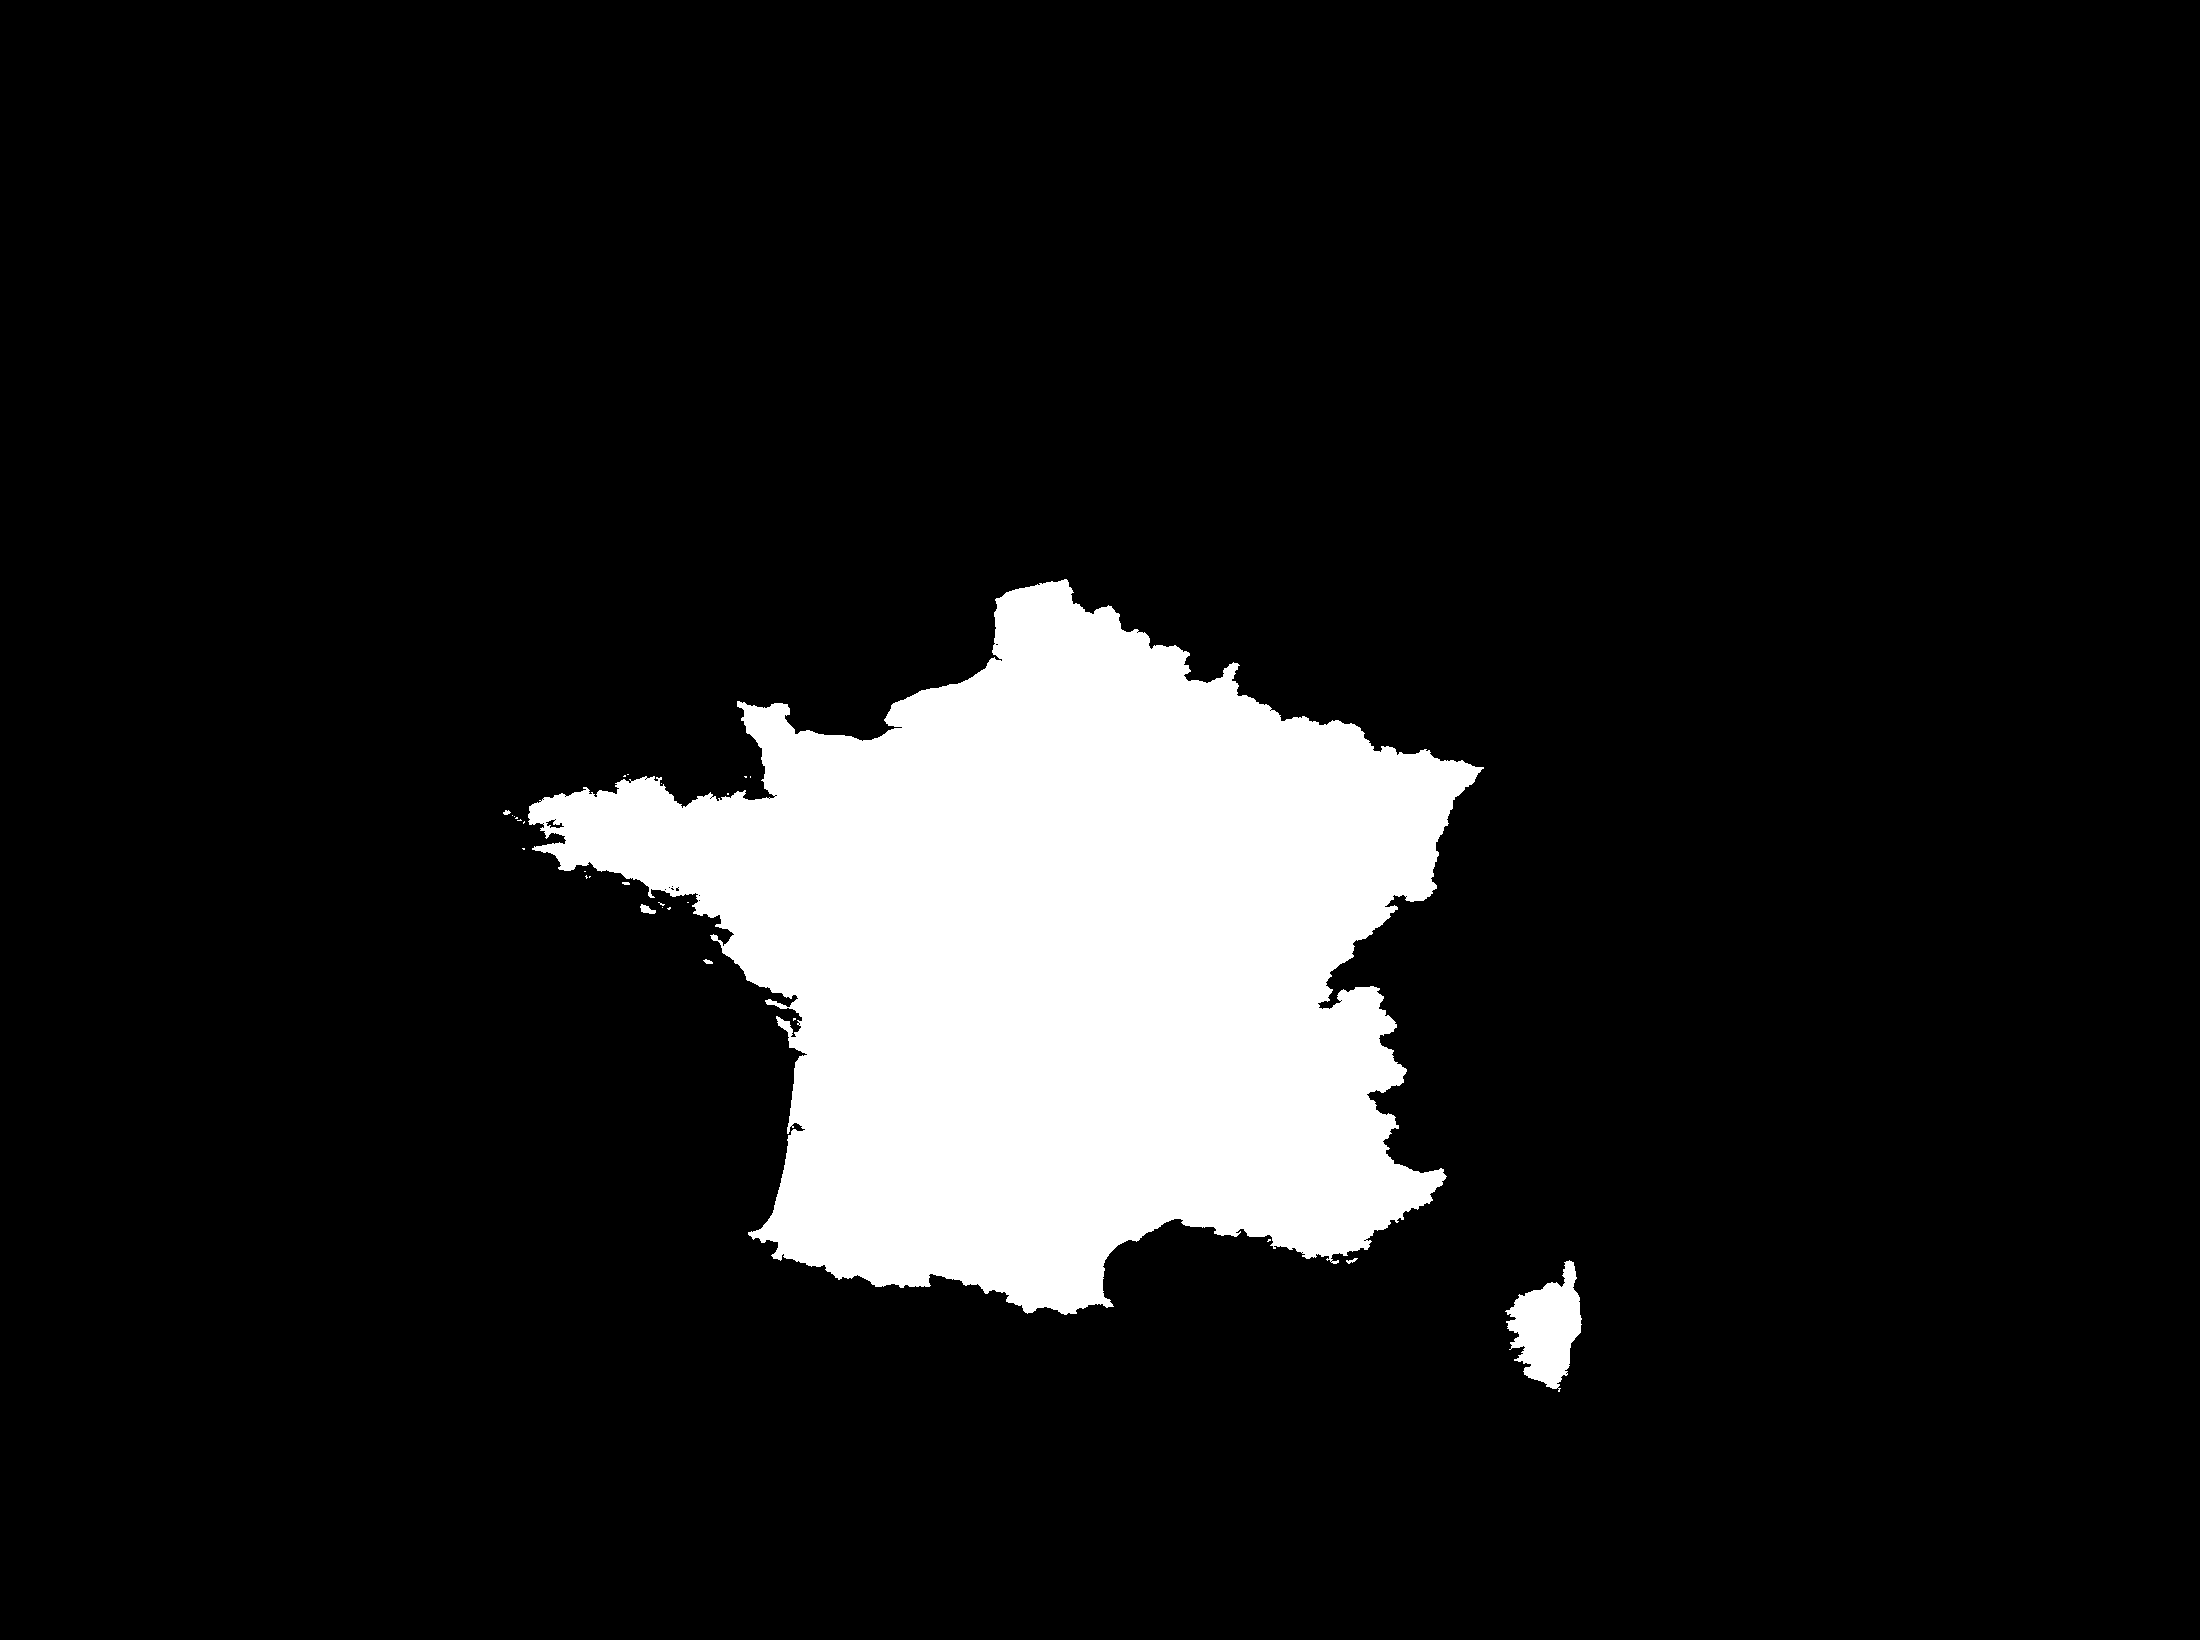
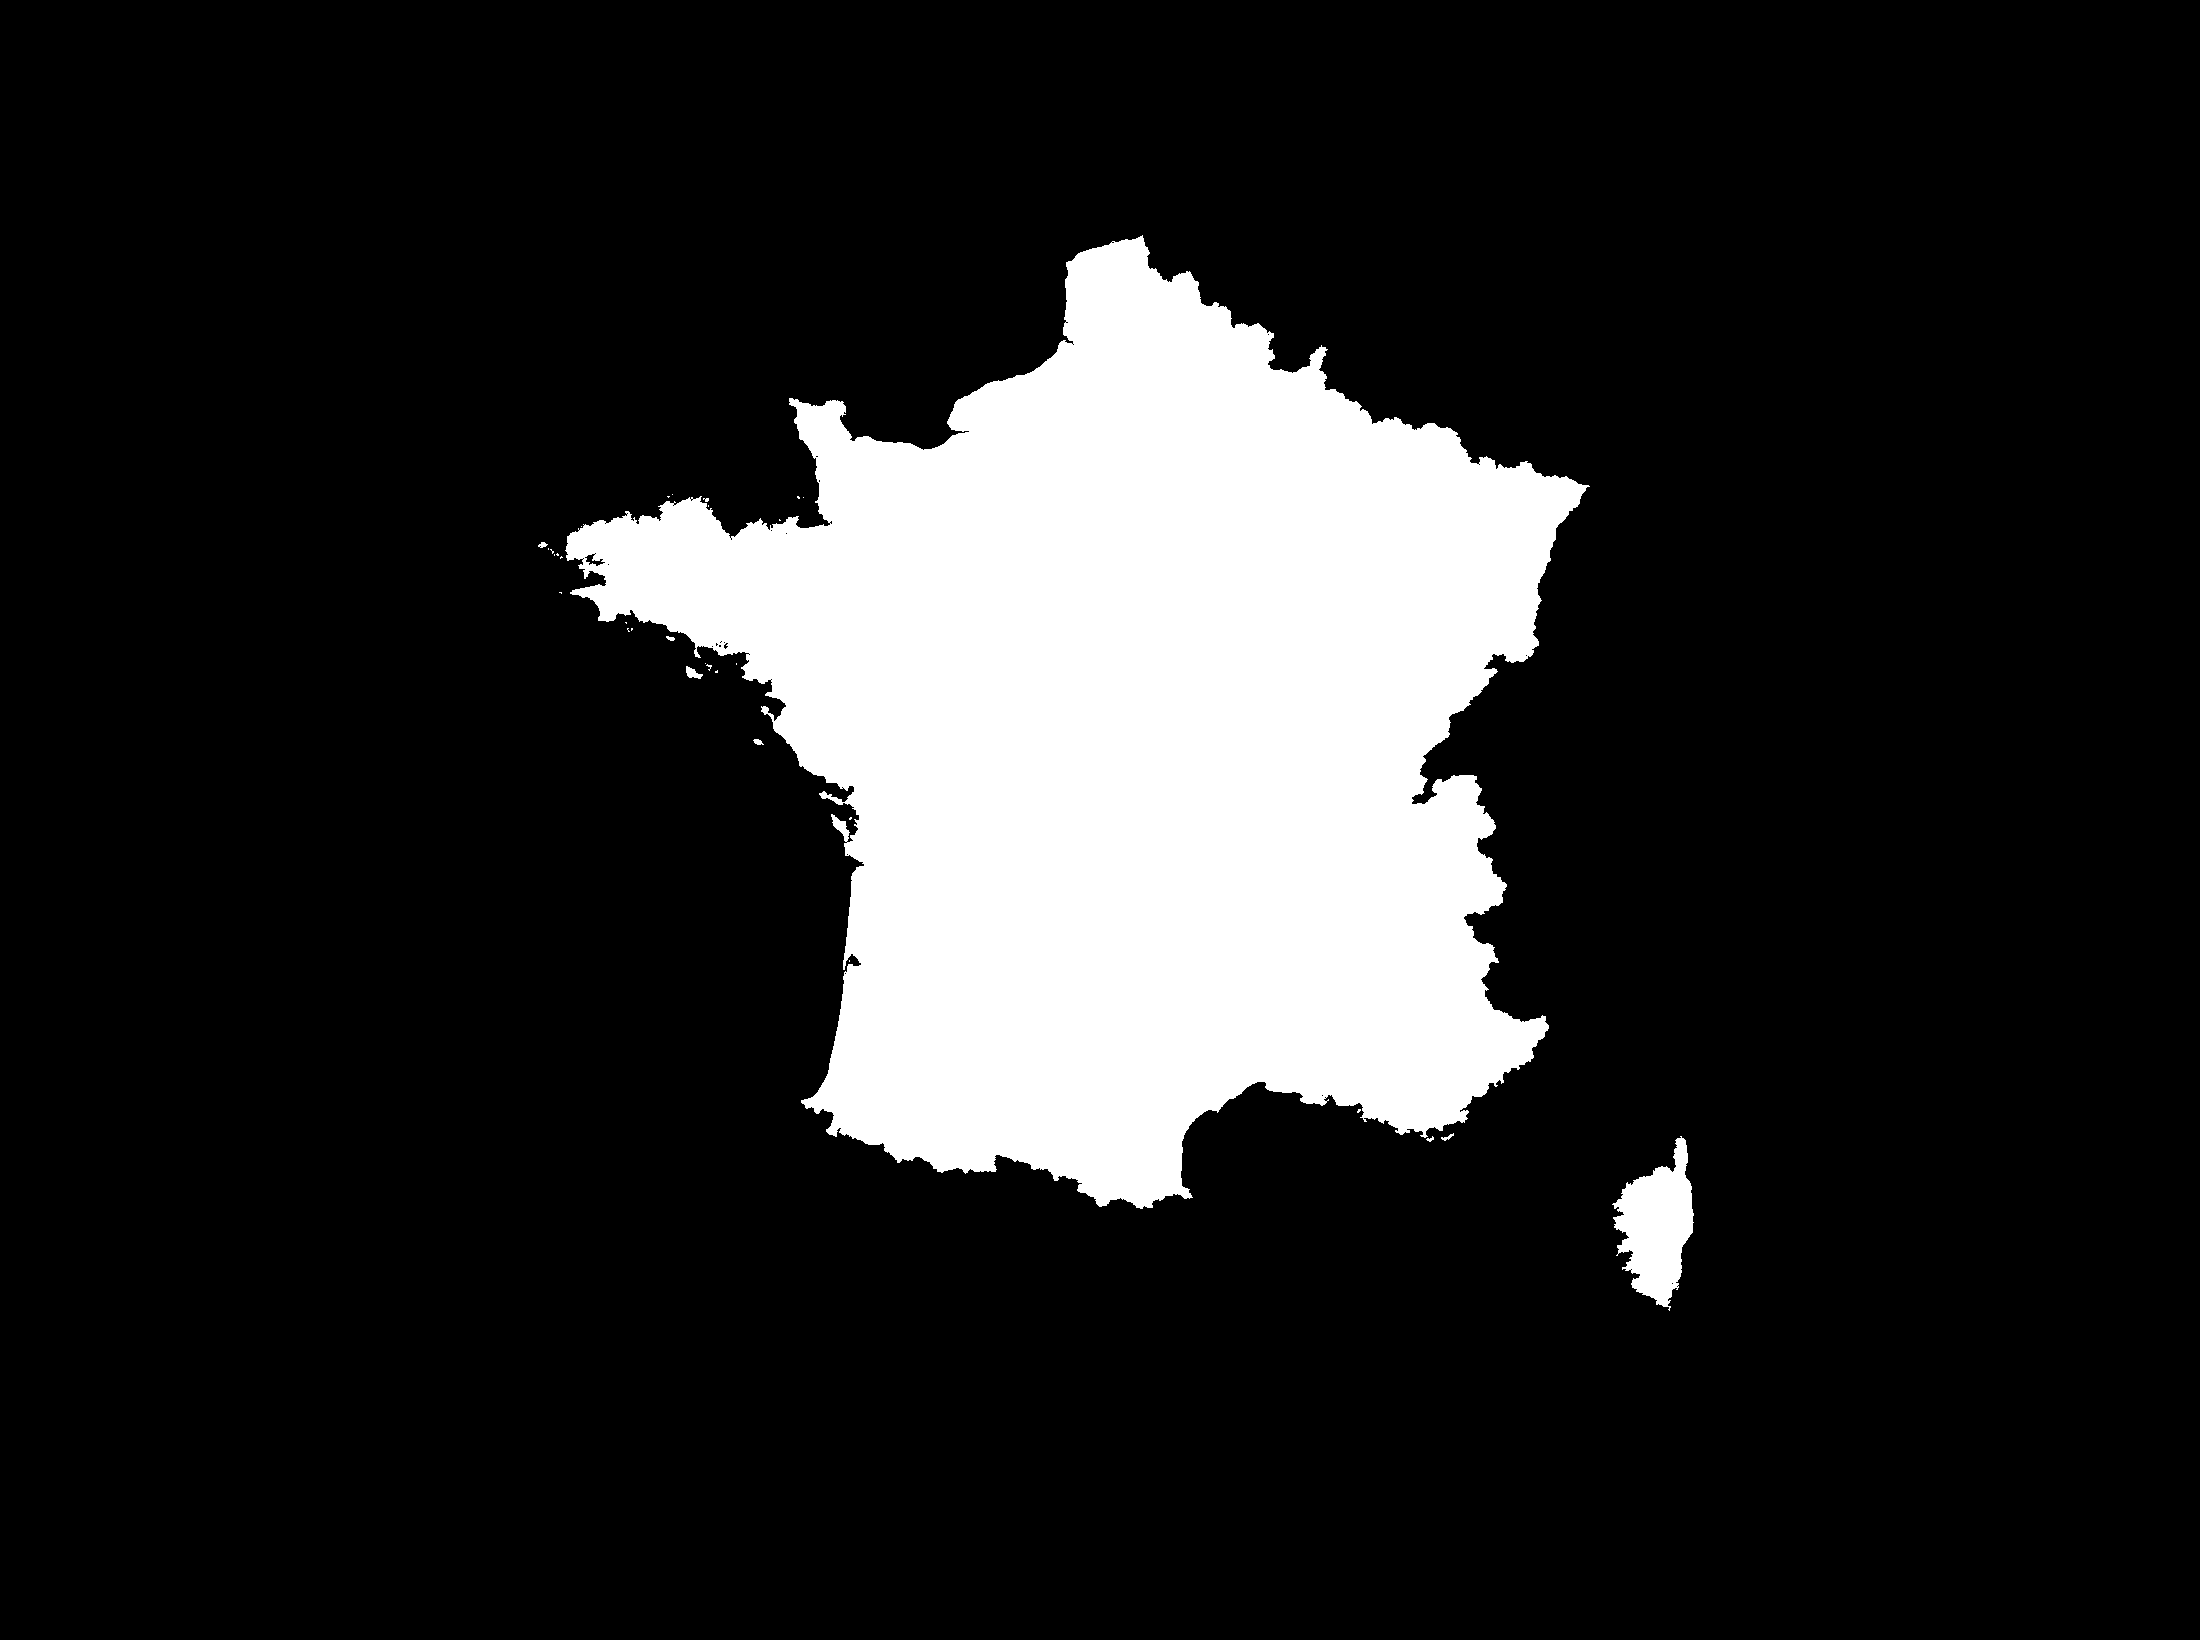
fix critiques: masque France regenere avec les bonnes bornes (le maillage debordait sur les pays voisins et la mer) + header flex-wrap (boutons PNG/JPEG/GIF masques sur petits ecrans) + retrait ligne headline du header (cartouche canvas en haut a gauche suffit)

Changed region(s): [[0.2473, 0.1244, 0.7418, 0.8085], [0.68, 0.6841, 0.7727, 0.8396]]

diff --git a/index.html b/index.html
@@ -101,6 +101,7 @@
             right: max(14px, env(safe-area-inset-right));
             z-index: 100;
             display: flex;
+            flex-wrap: wrap;
             justify-content: space-between;
             align-items: center;
             pointer-events: none;
@@ -488,7 +489,6 @@
                     <span>MODÈLE AROME HD</span>
                     <span class="amfm-badge">1,3 km</span>
                 </div>
-                <div class="amfm-headline" data-amfm-headline aria-live="polite">Chargement…</div>
             </div>
 
             <div class="amfm-card amfm-controls" role="region" aria-label="Contrôles de la carte">

diff --git a/pipeline/generate_fond.py b/pipeline/generate_fond.py
@@ -14,6 +14,7 @@ import os
 import json
 import math
 import sys
+import urllib.request
 
 import numpy as np
 from PIL import Image, ImageDraw
@@ -23,6 +24,9 @@ sys.path.insert(0, os.path.join(BASE_DIR, "pipeline"))
 from fetch_and_render_all import BOUNDS, WIDTH, HEIGHT  # noqa: E402
 
 COUNTRIES_FILE = os.path.join(BASE_DIR, "config", "countries-50m.geojson")
+DEPARTEMENTS_URL = ("https://raw.githubusercontent.com/gregoiredavid/"
+                    "france-geojson/master/departements.geojson")
+MASK_FILE = os.path.join(BASE_DIR, "output", "arome", "maps", "mask_france.png")
 
 # Couleurs style Positron (cartes claires MapLibre, comme meteo-npdc)
 OCEAN = (143, 163, 184)        # #8FA3B8
@@ -105,5 +109,46 @@ def generate_fond(out_path):
     return out_path
 
 
+def generate_france_mask(out_path=None):
+    """Masque France précis (255 = France, 0 = extérieur) dans les bornes
+    EXACTES des tuiles (BOUNDS). Sans lui, la météo déborde sur les pays
+    voisins et la mer."""
+    out_path = out_path or MASK_FILE
+    try:
+        req = urllib.request.urlopen(DEPARTEMENTS_URL, timeout=60)
+        data = json.loads(req.read().decode("utf-8"))
+    except Exception as e:
+        print("WARNING: masque France non généré (%s)" % e)
+        return None
+
+    img = Image.new("L", (WIDTH, HEIGHT), 0)
+    draw = ImageDraw.Draw(img)
+    for feature in data.get("features", []):
+        geom = feature.get("geometry", {})
+        gtype = geom.get("type")
+        coords = geom.get("coordinates", [])
+        if gtype == "Polygon":
+            for ring in coords:
+                pts = [_project((pt[0], pt[1])) for pt in ring]
+                draw.polygon(pts, fill=255)
+        elif gtype == "MultiPolygon":
+            for poly in coords:
+                for ring in poly:
+                    pts = [_project((pt[0], pt[1])) for pt in ring]
+                    draw.polygon(pts, fill=255)
+
+    os.makedirs(os.path.dirname(out_path), exist_ok=True)
+    img.save(out_path, format="PNG")
+    print("Masque France généré : %s" % out_path)
+    return out_path
+
+
+def generate_all():
+    """Génère le fond de carte + le masque France (bornes correctes)."""
+    maps_dir = os.path.join(BASE_DIR, "output", "arome", "maps")
+    generate_fond(os.path.join(maps_dir, "fond.webp"))
+    generate_france_mask(os.path.join(maps_dir, "mask_france.png"))
+
+
 if __name__ == "__main__":
-    generate_fond(os.path.join(BASE_DIR, "output", "arome", "maps", "fond.webp"))
+    generate_all()

diff --git a/pipeline/arome_open_data.py b/pipeline/arome_open_data.py
@@ -840,10 +840,10 @@ def run(max_hours=51):
                            [s["lead_hour"] for s in steps],
                            per_lead_values, communes)
 
-    # Fond de carte (pays voisins inclus, style Positron)
+    # Fond de carte (pays voisins inclus) + masque France (bornes correctes)
     try:
-        from generate_fond import generate_fond
-        generate_fond(os.path.join(out_dir, "fond.webp"))
+        from generate_fond import generate_all
+        generate_all()
     except Exception as e:
         print("WARNING: fond de carte non généré (%s)" % e)
 
